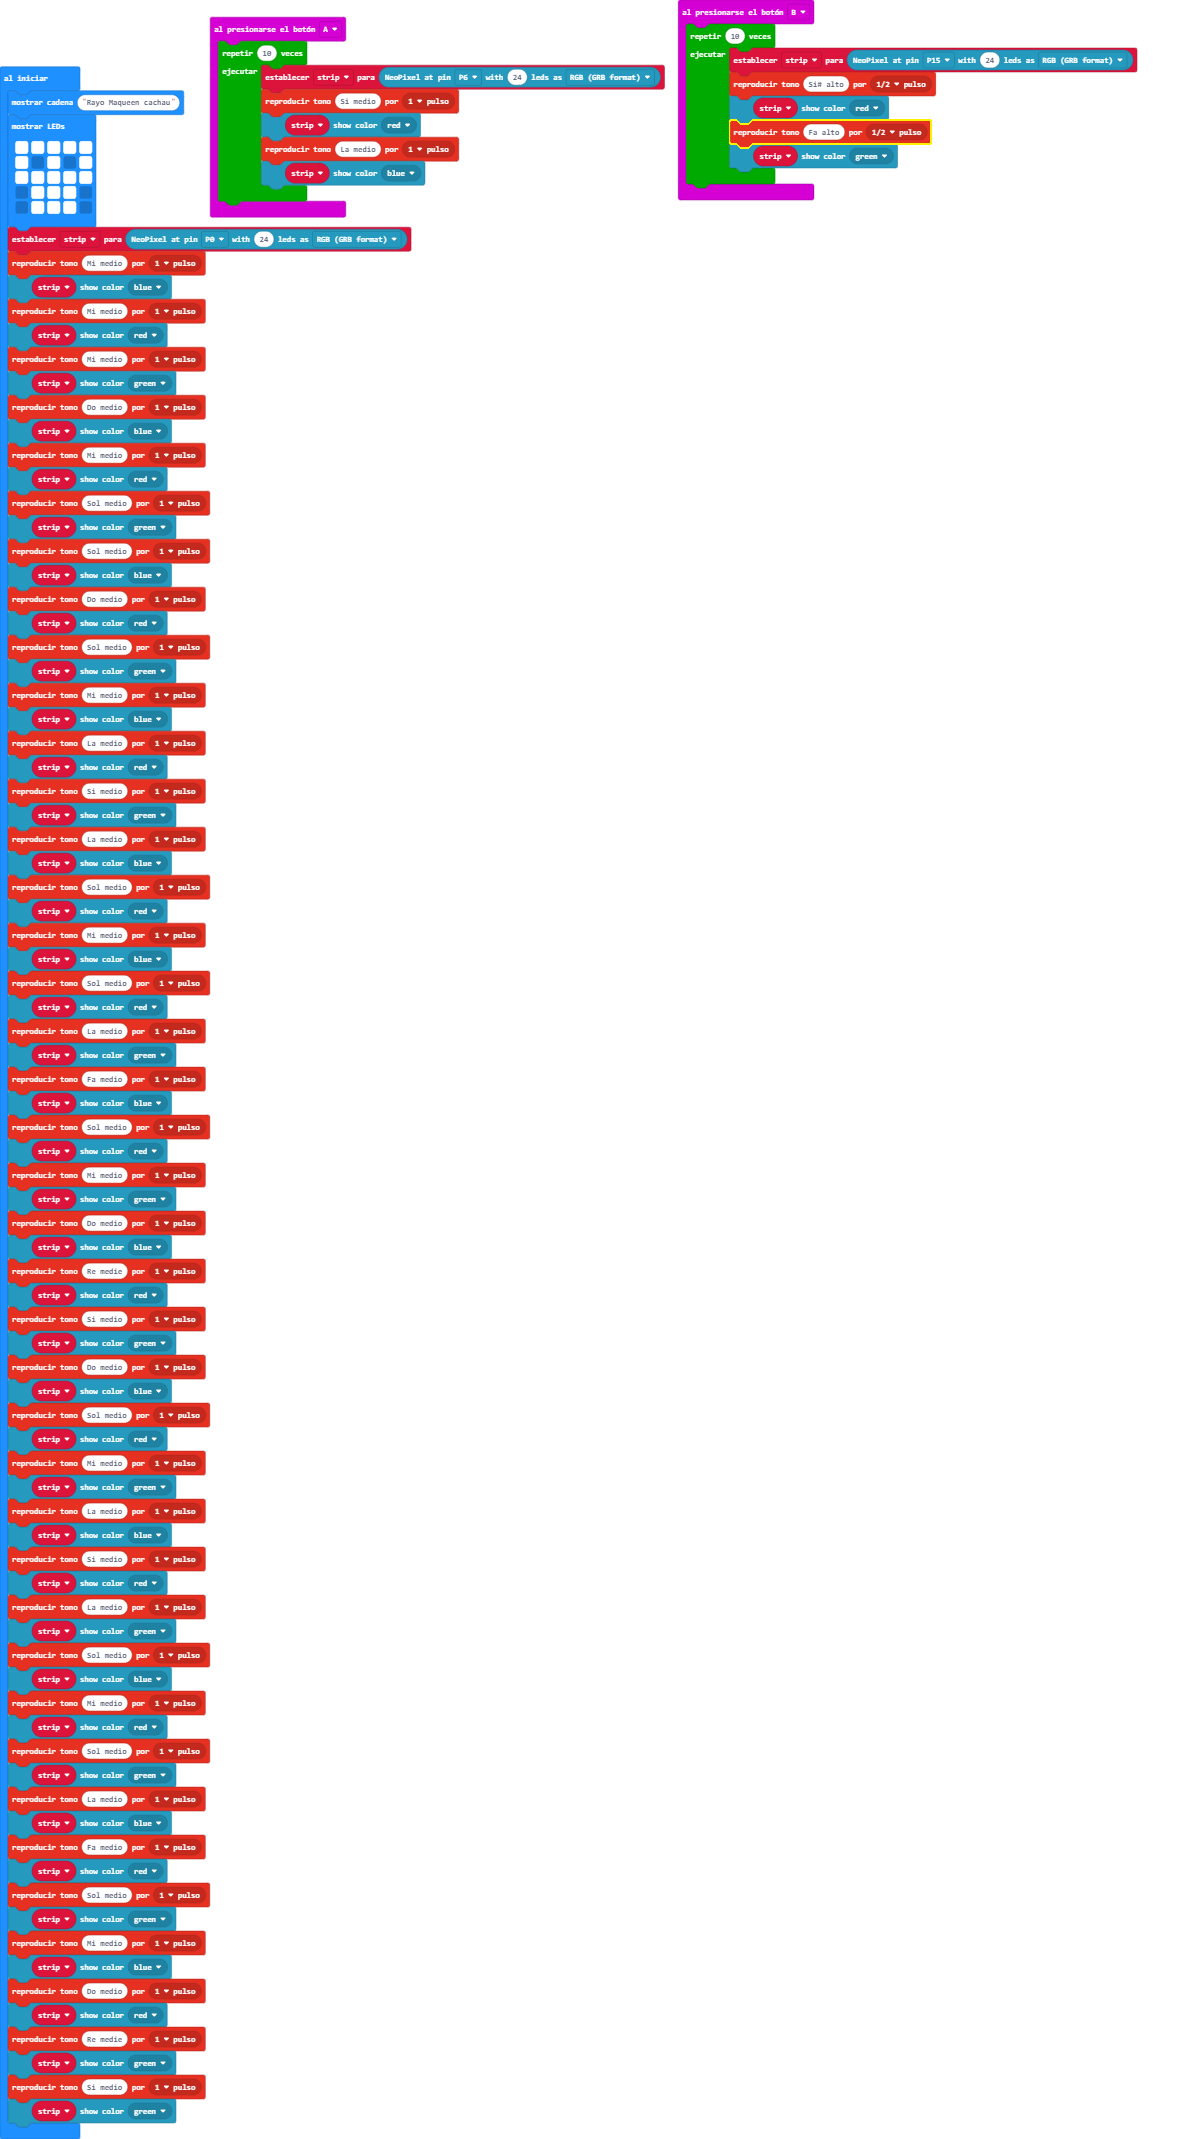
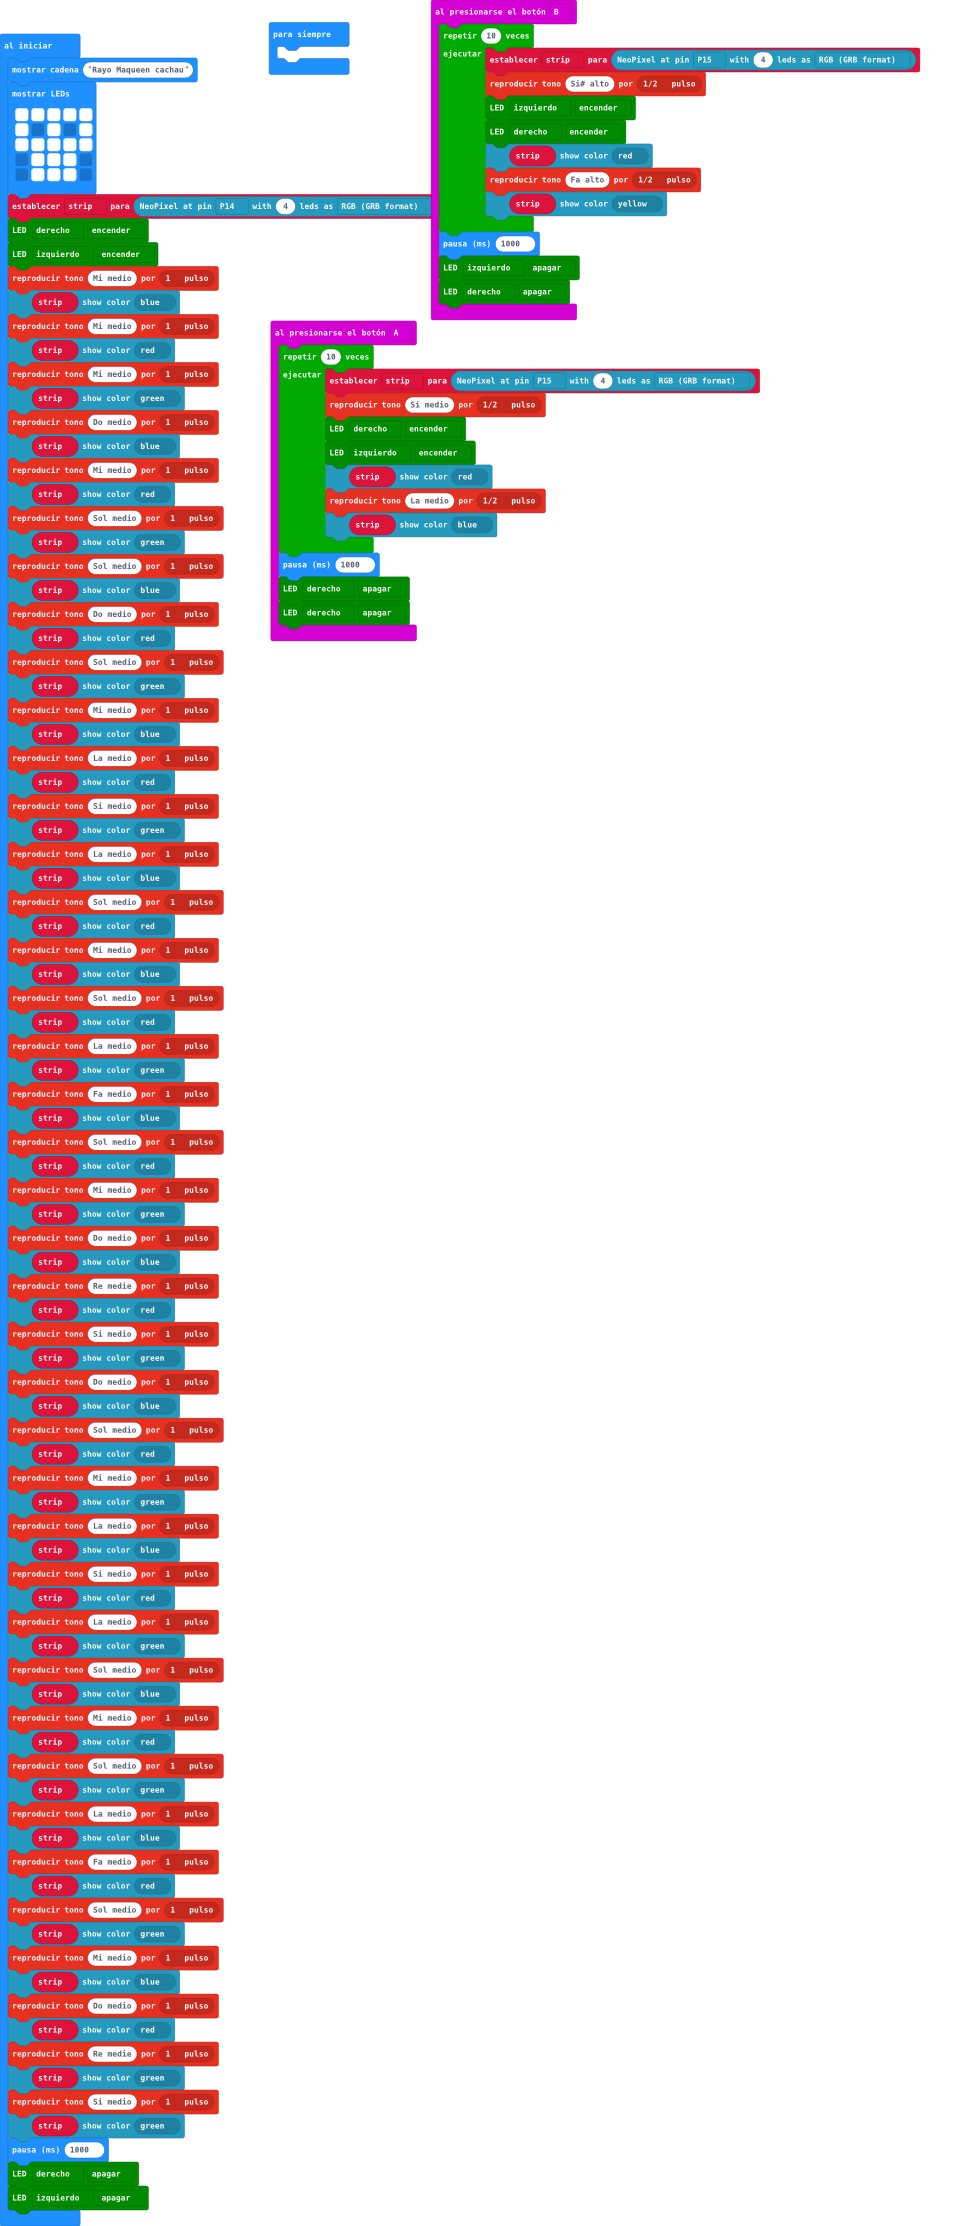
Actualizar pxt.json, main.blocks, main.ts

Changed region(s): [[0.0, 0.0, 0.9568, 1.0]]

diff --git a/main.ts b/main.ts
@@ -1,20 +1,30 @@
 input.onButtonPressed(Button.A, function () {
     for (let index = 0; index < 10; index++) {
-        strip = neopixel.create(DigitalPin.P6, 24, NeoPixelMode.RGB)
-        music.playTone(494, music.beat(BeatFraction.Whole))
+        strip = neopixel.create(DigitalPin.P15, 4, NeoPixelMode.RGB)
+        music.playTone(494, music.beat(BeatFraction.Half))
+        maqueen.writeLED(maqueen.LED.LEDLeft, maqueen.LEDswitch.turnOn)
+        maqueen.writeLED(maqueen.LED.LEDRight, maqueen.LEDswitch.turnOn)
         strip.showColor(neopixel.colors(NeoPixelColors.Red))
-        music.playTone(440, music.beat(BeatFraction.Whole))
+        music.playTone(440, music.beat(BeatFraction.Half))
         strip.showColor(neopixel.colors(NeoPixelColors.Blue))
     }
+    basic.pause(1000)
+    maqueen.writeLED(maqueen.LED.LEDLeft, maqueen.LEDswitch.turnOff)
+    maqueen.writeLED(maqueen.LED.LEDLeft, maqueen.LEDswitch.turnOff)
 })
 input.onButtonPressed(Button.B, function () {
     for (let index = 0; index < 10; index++) {
-        strip = neopixel.create(DigitalPin.P15, 24, NeoPixelMode.RGB)
+        strip = neopixel.create(DigitalPin.P15, 4, NeoPixelMode.RGB)
         music.playTone(988, music.beat(BeatFraction.Half))
+        maqueen.writeLED(maqueen.LED.LEDRight, maqueen.LEDswitch.turnOn)
+        maqueen.writeLED(maqueen.LED.LEDLeft, maqueen.LEDswitch.turnOn)
         strip.showColor(neopixel.colors(NeoPixelColors.Red))
         music.playTone(698, music.beat(BeatFraction.Half))
-        strip.showColor(neopixel.colors(NeoPixelColors.Green))
+        strip.showColor(neopixel.colors(NeoPixelColors.Yellow))
     }
+    basic.pause(1000)
+    maqueen.writeLED(maqueen.LED.LEDRight, maqueen.LEDswitch.turnOff)
+    maqueen.writeLED(maqueen.LED.LEDLeft, maqueen.LEDswitch.turnOff)
 })
 let strip: neopixel.Strip = null
 basic.showString("Rayo Maqueen cachau")
@@ -25,7 +35,9 @@ basic.showLeds(`
     . # # # .
     . # # # .
     `)
-strip = neopixel.create(DigitalPin.P0, 24, NeoPixelMode.RGB)
+strip = neopixel.create(DigitalPin.P14, 4, NeoPixelMode.RGB)
+maqueen.writeLED(maqueen.LED.LEDLeft, maqueen.LEDswitch.turnOn)
+maqueen.writeLED(maqueen.LED.LEDRight, maqueen.LEDswitch.turnOn)
 music.playTone(330, music.beat(BeatFraction.Whole))
 strip.showColor(neopixel.colors(NeoPixelColors.Blue))
 music.playTone(330, music.beat(BeatFraction.Whole))
@@ -104,6 +116,9 @@ music.playTone(294, music.beat(BeatFraction.Whole))
 strip.showColor(neopixel.colors(NeoPixelColors.Green))
 music.playTone(494, music.beat(BeatFraction.Whole))
 strip.showColor(neopixel.colors(NeoPixelColors.Green))
+basic.pause(1000)
+maqueen.writeLED(maqueen.LED.LEDLeft, maqueen.LEDswitch.turnOff)
+maqueen.writeLED(maqueen.LED.LEDRight, maqueen.LEDswitch.turnOff)
 basic.forever(function () {
 	
 })
